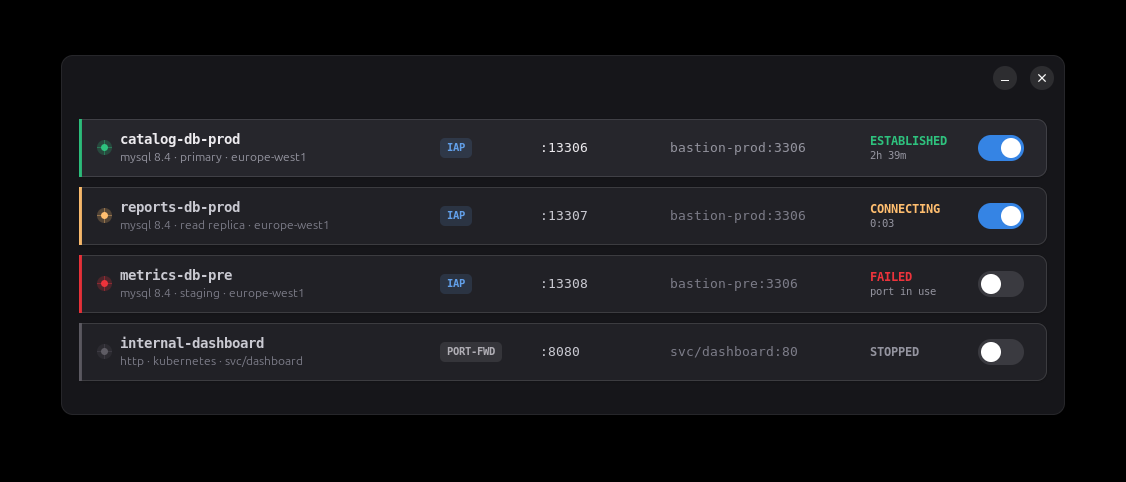
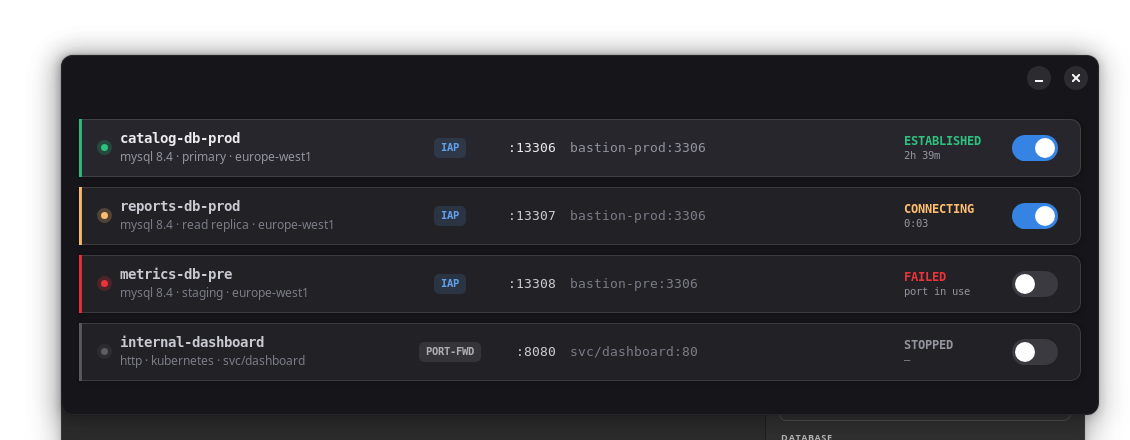
Row prototype: per-column alignment, a gutter, and the target's own width
Settled against real data, then kept as invented data: the port column was three times
wider than a port and the target was losing its bastion name to an ellipsis, so 60 px
moved from one to the other and another 40 came off the name, which had slack.

  - every column keeps 14 px clear on its right, so an ellipsis can never end up
    touching the column next to it
  - the port sits right, the pill centred, everything else left. Numbers right-aligned
    line their last digit up, which is the point of a port column
  - a centred column keeps no gutter: a margin on one side only pushes it off centre
  - the second line under the state always exists, an em dash when there is nothing to
    say, so the state word cannot jump the moment a tunnel starts connecting

Columns: 280 name, 100 pill, 70 port, 334 target, 108 state, 46 switch. 1001 px of row,
fixed, in a window that cannot be resized.

diff --git a/tools/row-proto.py b/tools/row-proto.py
@@ -35,11 +35,13 @@ STRIPE = 3  # the state bar down the left edge
 LED_MARGIN = 19  # from the stripe to the dot
 LED = 7
 TITLE_GAP = 12  # from the dot to the name
-TITLE_W = 320  # column 1, the name and its subtitle
+TITLE_W = 280  # column 1, the name and its subtitle
 PILL_W = 100  # column 2, fits "PORT-FWD", the longest word in the vocabulary
-PORT_W = 130  # column 3
-TARGET_W = 200  # column 4, the widest, and it ellipsises when a target is longer
+PORT_W = 70  # column 3, a port is six digits and a colon; the slack went to the target
+TARGET_W = 334  # column 4, the widest: a bastion name plus its port needs every pixel
 STATE_W = 108  # column 5
+GUTTER = 14  # every column keeps this clear on its right, so an ellipsis never
+# ends up touching the next column
 SWITCH_W = 46  # column 6, the size Adwaita insists on
 EDGE = 22  # from the switch to the right edge
 ROW_MIN = 58
@@ -194,14 +196,29 @@ def label(text: str, *classes: str) -> Gtk.Label:
     return widget
 
 
-def slot(width: int, child: Gtk.Widget, offset: int = 0) -> Gtk.Box:
-    """A fixed-width column. The slot owns the width; the content sits left and centred."""
+def slot(width: int, child: Gtk.Widget, offset: int = 0, align: str = "start") -> Gtk.Box:
+    """A fixed-width column. The slot owns the width; the content is always centred
+    vertically, and sits left, centred or right within it.
+
+    A centred column keeps no gutter -- a margin on one side only would push it off
+    centre by half of itself.
+    """
     box = Gtk.Box(orientation=Gtk.Orientation.HORIZONTAL, hexpand=False)
     box.set_size_request(width, -1)
     child.set_margin_start(offset)
-    child.set_halign(Gtk.Align.START)
     child.set_valign(Gtk.Align.CENTER)
     child.set_hexpand(True)
+
+    if align == "center":
+        child.set_halign(Gtk.Align.CENTER)
+    elif align == "end":
+        child.set_margin_end(GUTTER)
+        child.set_halign(Gtk.Align.FILL)
+        if isinstance(child, Gtk.Label):
+            child.set_xalign(1)
+    else:
+        child.set_margin_end(GUTTER)
+        child.set_halign(Gtk.Align.START)
     box.append(child)
     return box
 
@@ -244,15 +261,17 @@ def build_row(name, sub, kind, pill, port, target, state, substate, on) -> Gtk.W
 
     chip = label(pill, "pill", "iap" if pill == "IAP" else "fwd")
     chip.set_ellipsize(Pango.EllipsizeMode.NONE)  # a closed vocabulary never truncates
-    card.append(slot(PILL_W, chip))
+    card.append(slot(PILL_W, chip, align="center"))
 
-    card.append(slot(PORT_W, label(port, "port")))
+    card.append(slot(PORT_W, label(port, "port"), align="end"))
     card.append(slot(TARGET_W, label(target, "target")))
 
     stack = Gtk.Box(orientation=Gtk.Orientation.VERTICAL, spacing=1, valign=Gtk.Align.CENTER)
     stack.append(label(state, "state", kind))
-    if substate:
-        stack.append(label(substate, "substate"))
+    # The second line always exists. A stopped tunnel has nothing to say there, but if
+    # the line only appeared when it did, the state word would jump the moment a tunnel
+    # started connecting. An em dash is the table convention for "no value".
+    stack.append(label(substate or "\u2014", "substate"))
     card.append(slot(STATE_W, stack))
 
     switch = Gtk.Switch(active=on, valign=Gtk.Align.CENTER, halign=Gtk.Align.END)
